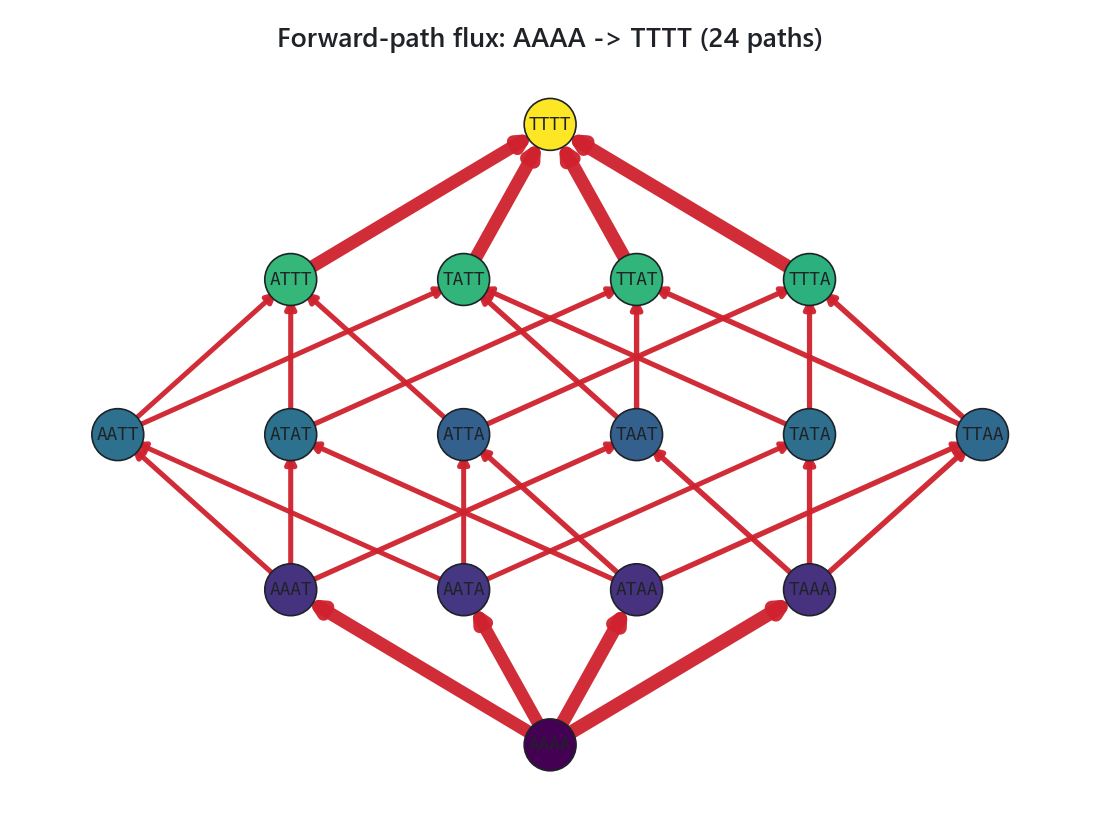
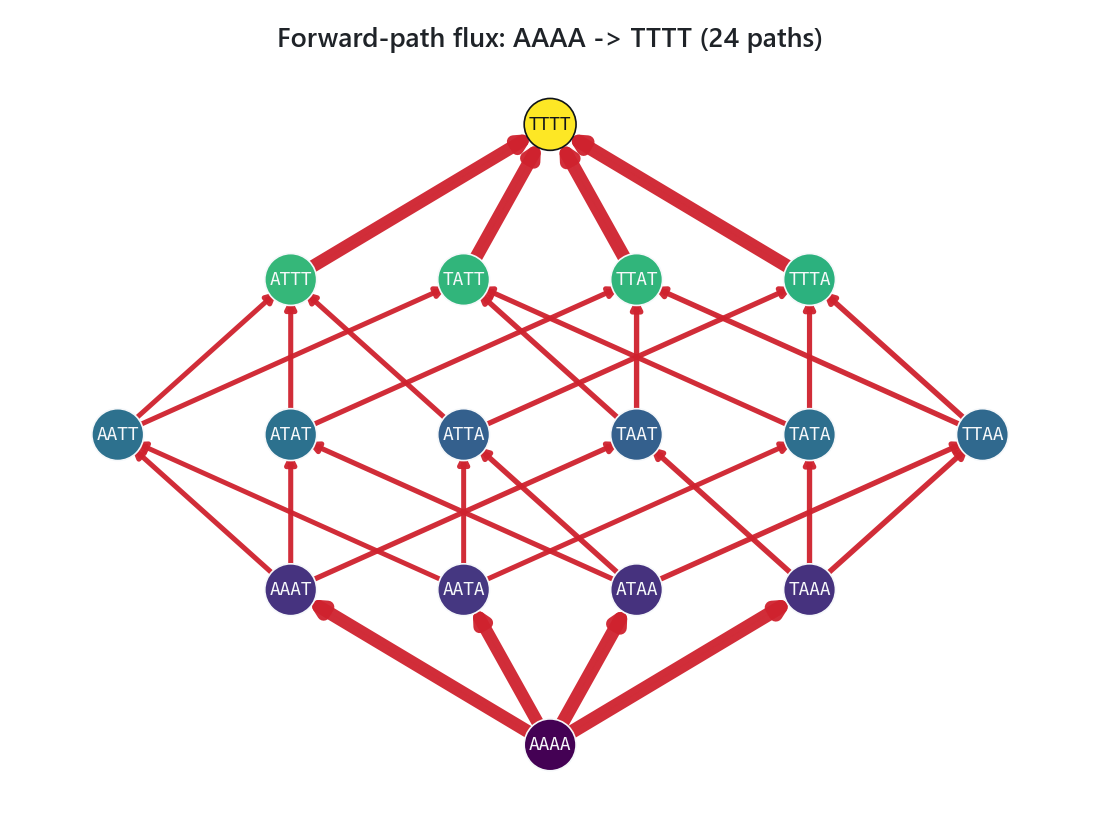
docs: legible graph node labels and a neighbor-cutoff figure
The graph figures (hero Hamming hypercube, forward-path flux, codon graph)
colored each node by phenotype or amino acid but drew the genotype label and
node outline in a single per-variant ink: black in the light PNG, white in
the dark PNG (the codon figure even hardcoded white). That ink matched some
node fills exactly, so labels vanished: dark text on the dark low-phenotype
nodes in light mode, white text on the bright peak in dark mode.

Node label and outline color are now chosen per node from each node's own
fill luminance, so they stay readable on whatever page background the docs or
README use, in both PNG variants, with no manual overrides.

Also adds a cutoff-1-vs-cutoff-2 connectivity figure to the Neighbors concept
page, which previously had no illustration: it shows the single-mutant
hypercube skeleton next to the same map with double-mutant edges added.

diff --git a/docs/concepts/neighbors.md b/docs/concepts/neighbors.md
@@ -7,6 +7,11 @@ description: "Distance metrics, the dispatch policy that picks the fastest kerne
 
 `gpgraph-v2` defines two genotypes as neighbors when their distance is at most a cutoff. The default distance is Hamming; an alternative codon distance is available for codon-aligned DNA. Neighbor detection runs in Rust with rayon parallelism, with several specialized fast paths for common shapes.
 
+![Hamming neighbors on an L=4 map: cutoff 1 connects single mutants, cutoff 2 also connects double mutants](../assets/neighbor-cutoffs-light.png#only-light)
+![Hamming neighbors on an L=4 map: cutoff 1 connects single mutants, cutoff 2 also connects double mutants](../assets/neighbor-cutoffs-dark.png#only-dark)
+
+The cutoff sets how far apart two genotypes can be and still count as neighbors. Cutoff 1 gives the familiar single-mutation hypercube; raising it to 2 adds every double-mutant edge (the lighter diagonals above), which densifies the graph quickly.
+
 ## Hamming distance
 
 Hamming distance is the number of positions at which two equal-length sequences differ. Cutoff 1 means single-mutation neighbors; cutoff 2 includes double-mutants; and so on.
